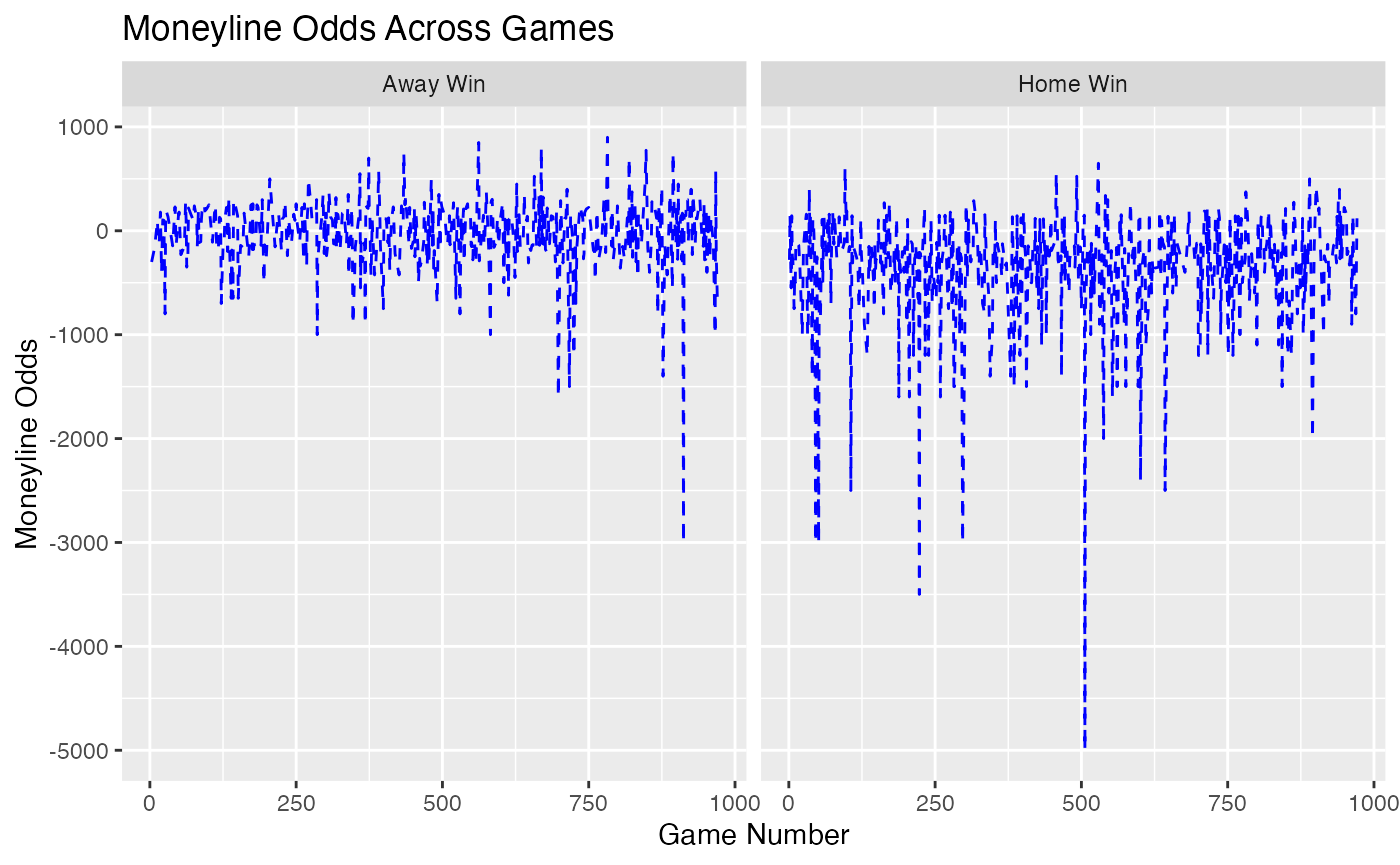
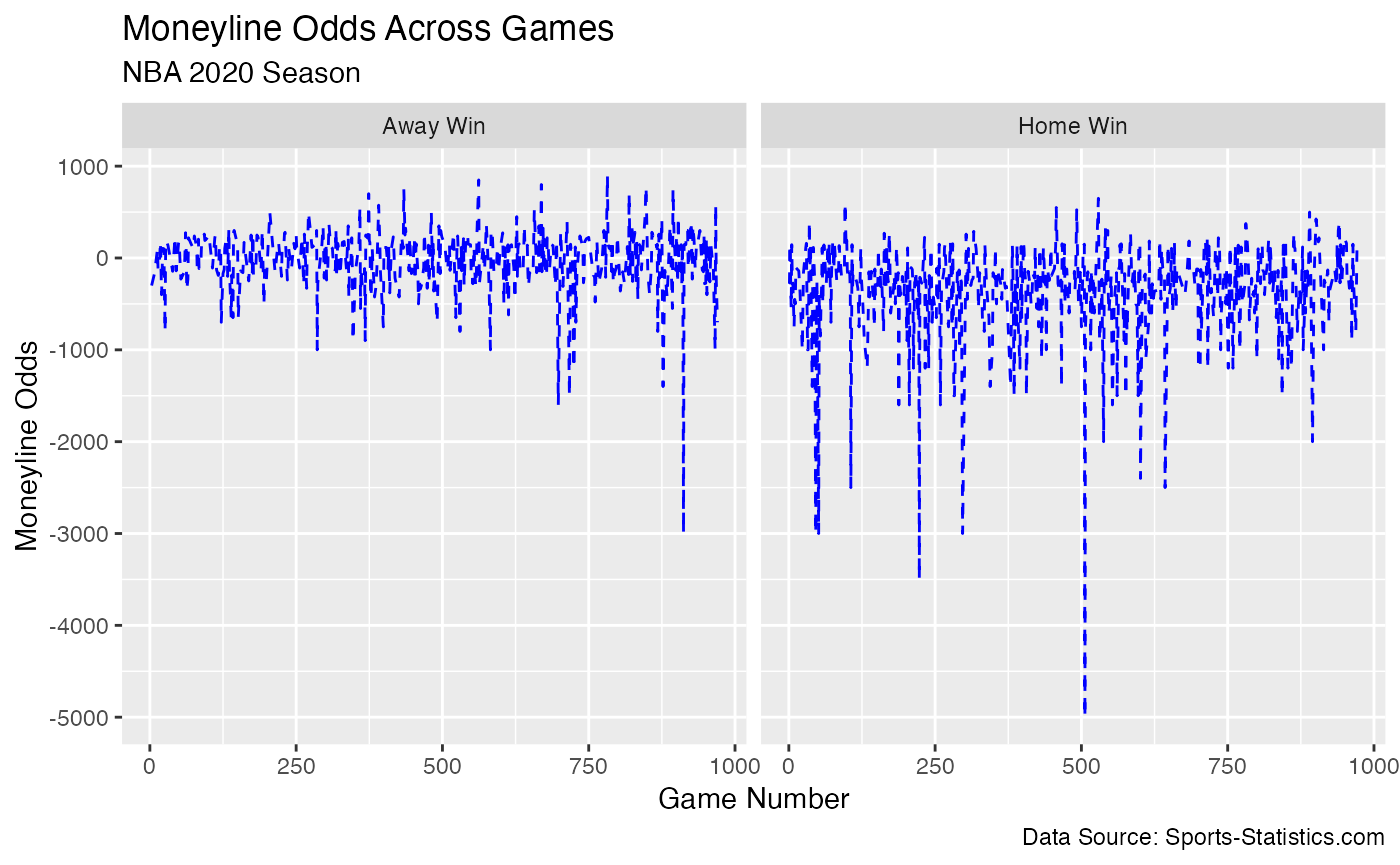
Updated code

diff --git a/docs/articles/vignette.html b/docs/articles/vignette.html
@@ -314,7 +314,7 @@ scored</td>
 <span>       subtitle <span class="op">=</span> <span class="st">"NBA 2020 Season"</span>,</span>
 <span>       x <span class="op">=</span> <span class="st">"Home Moneyline"</span>,</span>
 <span>       y <span class="op">=</span> <span class="st">"Away Moneyline"</span>,</span>
-<span>       caption <span class="op">=</span> <span class="st">"Data Source: Your NBA Dataset"</span><span class="op">)</span></span></code></pre></div>
+<span>       caption <span class="op">=</span> <span class="st">"Data Source: Sports-Statistics.com"</span><span class="op">)</span></span></code></pre></div>
 <p><img src="vignette_files/figure-html/unnamed-chunk-5-1.png" width="700"></p>
 <div class="sourceCode" id="cb4"><pre class="downlit sourceCode r">
 <code class="sourceCode R"><span><span class="co"># Use pmap to apply a function row-wise to create a new variable</span></span>
@@ -335,7 +335,7 @@ scored</td>
 <span>       subtitle <span class="op">=</span> <span class="st">"NBA 2020 Season"</span>,</span>
 <span>       x <span class="op">=</span> <span class="st">"Higher Moneyline Winner"</span>,</span>
 <span>       y <span class="op">=</span> <span class="st">"Count"</span>,</span>
-<span>       caption <span class="op">=</span> <span class="st">"Data Source: Your NBA Dataset"</span><span class="op">)</span> <span class="op">+</span></span>
+<span>       caption <span class="op">=</span> <span class="st">"Data Source: Sports-Statistics.com"</span><span class="op">)</span> <span class="op">+</span></span>
 <span>  <span class="fu">scale_fill_manual</span><span class="op">(</span>values <span class="op">=</span> <span class="fu"><a href="https://rdrr.io/r/base/c.html" class="external-link">c</a></span><span class="op">(</span><span class="st">"Home Win"</span> <span class="op">=</span> <span class="st">"skyblue"</span>, <span class="st">"Away Win"</span> <span class="op">=</span> <span class="st">"coral"</span><span class="op">)</span><span class="op">)</span></span></code></pre></div>
 <p><img src="vignette_files/figure-html/unnamed-chunk-6-1.png" width="700"></p>
 <div class="sourceCode" id="cb5"><pre class="downlit sourceCode r">
@@ -344,8 +344,10 @@ scored</td>
 <span>  <span class="fu">geom_line</span><span class="op">(</span>color <span class="op">=</span> <span class="st">"blue"</span>, linetype <span class="op">=</span> <span class="st">"dashed"</span>, <span class="fu">aes</span><span class="op">(</span>y <span class="op">=</span> <span class="va">home_ml</span><span class="op">)</span><span class="op">)</span> <span class="op">+</span></span>
 <span>  <span class="fu">facet_wrap</span><span class="op">(</span><span class="op">~</span><span class="va">game_result</span><span class="op">)</span> <span class="op">+</span></span>
 <span>  <span class="fu">labs</span><span class="op">(</span>title <span class="op">=</span> <span class="st">"Moneyline Odds Across Games"</span>,</span>
+<span>       subtitle <span class="op">=</span> <span class="st">"NBA 2020 Season"</span>,</span>
 <span>       x <span class="op">=</span> <span class="st">"Game Number"</span>,</span>
-<span>       y <span class="op">=</span> <span class="st">"Moneyline Odds"</span><span class="op">)</span></span></code></pre></div>
+<span>       y <span class="op">=</span> <span class="st">"Moneyline Odds"</span>,</span>
+<span>       caption <span class="op">=</span> <span class="st">"Data Source: Sports-Statistics.com"</span><span class="op">)</span></span></code></pre></div>
 <p><img src="vignette_files/figure-html/unnamed-chunk-7-1.png" width="700"></p>
 </div>
 </div>

diff --git a/docs/index.html b/docs/index.html
@@ -66,10 +66,21 @@
   <main id="main" class="col-md-9"><div class="section level1">
 <div class="page-header"><h1 id="bettingtools">bettingtools<a class="anchor" aria-label="anchor" href="#bettingtools"></a>
 </h1></div>
+<p>Author: Peter Wu</p>
 <!-- badges: start -->
 <!-- badges: end -->
 <p>The bettingtools package has functions related to working with sports betting lines. First, we provide functions to work with American, Decimal, and Implied odds in the tidy format. Next, we provide functions to work with sports betting lines such as calculating zero-vig probabilities, theoretical hold, and the optimal single Kelly stake bet. Furthermore, the package comes with tidy datasets for historical NBA (work in progress), MLB, NFL (work in progress), and NHL (work in progress) Vegas lines for moneylines, point totals, and point spreads.</p>
 <p>These functions take inspiration from posts by user “Ganchrow” on the Sportsbook Review forum.</p>
+<p>Link to <a href="https://github.com/pwu97/bettingtools" class="external-link">original GitHub respiratory</a></p>
+<p>Link to deployed website</p>
+<p>Customizations:</p>
+<ol style="list-style-type: decimal">
+<li>Added template</li>
+<li>Added links to sidebar</li>
+<li>Modified footer</li>
+<li>Modified navigation bar height</li>
+<li>Added github link to navbar</li>
+</ol>
 <div class="section level2">
 <h2 id="installation">Installation<a class="anchor" aria-label="anchor" href="#installation"></a>
 </h2>
